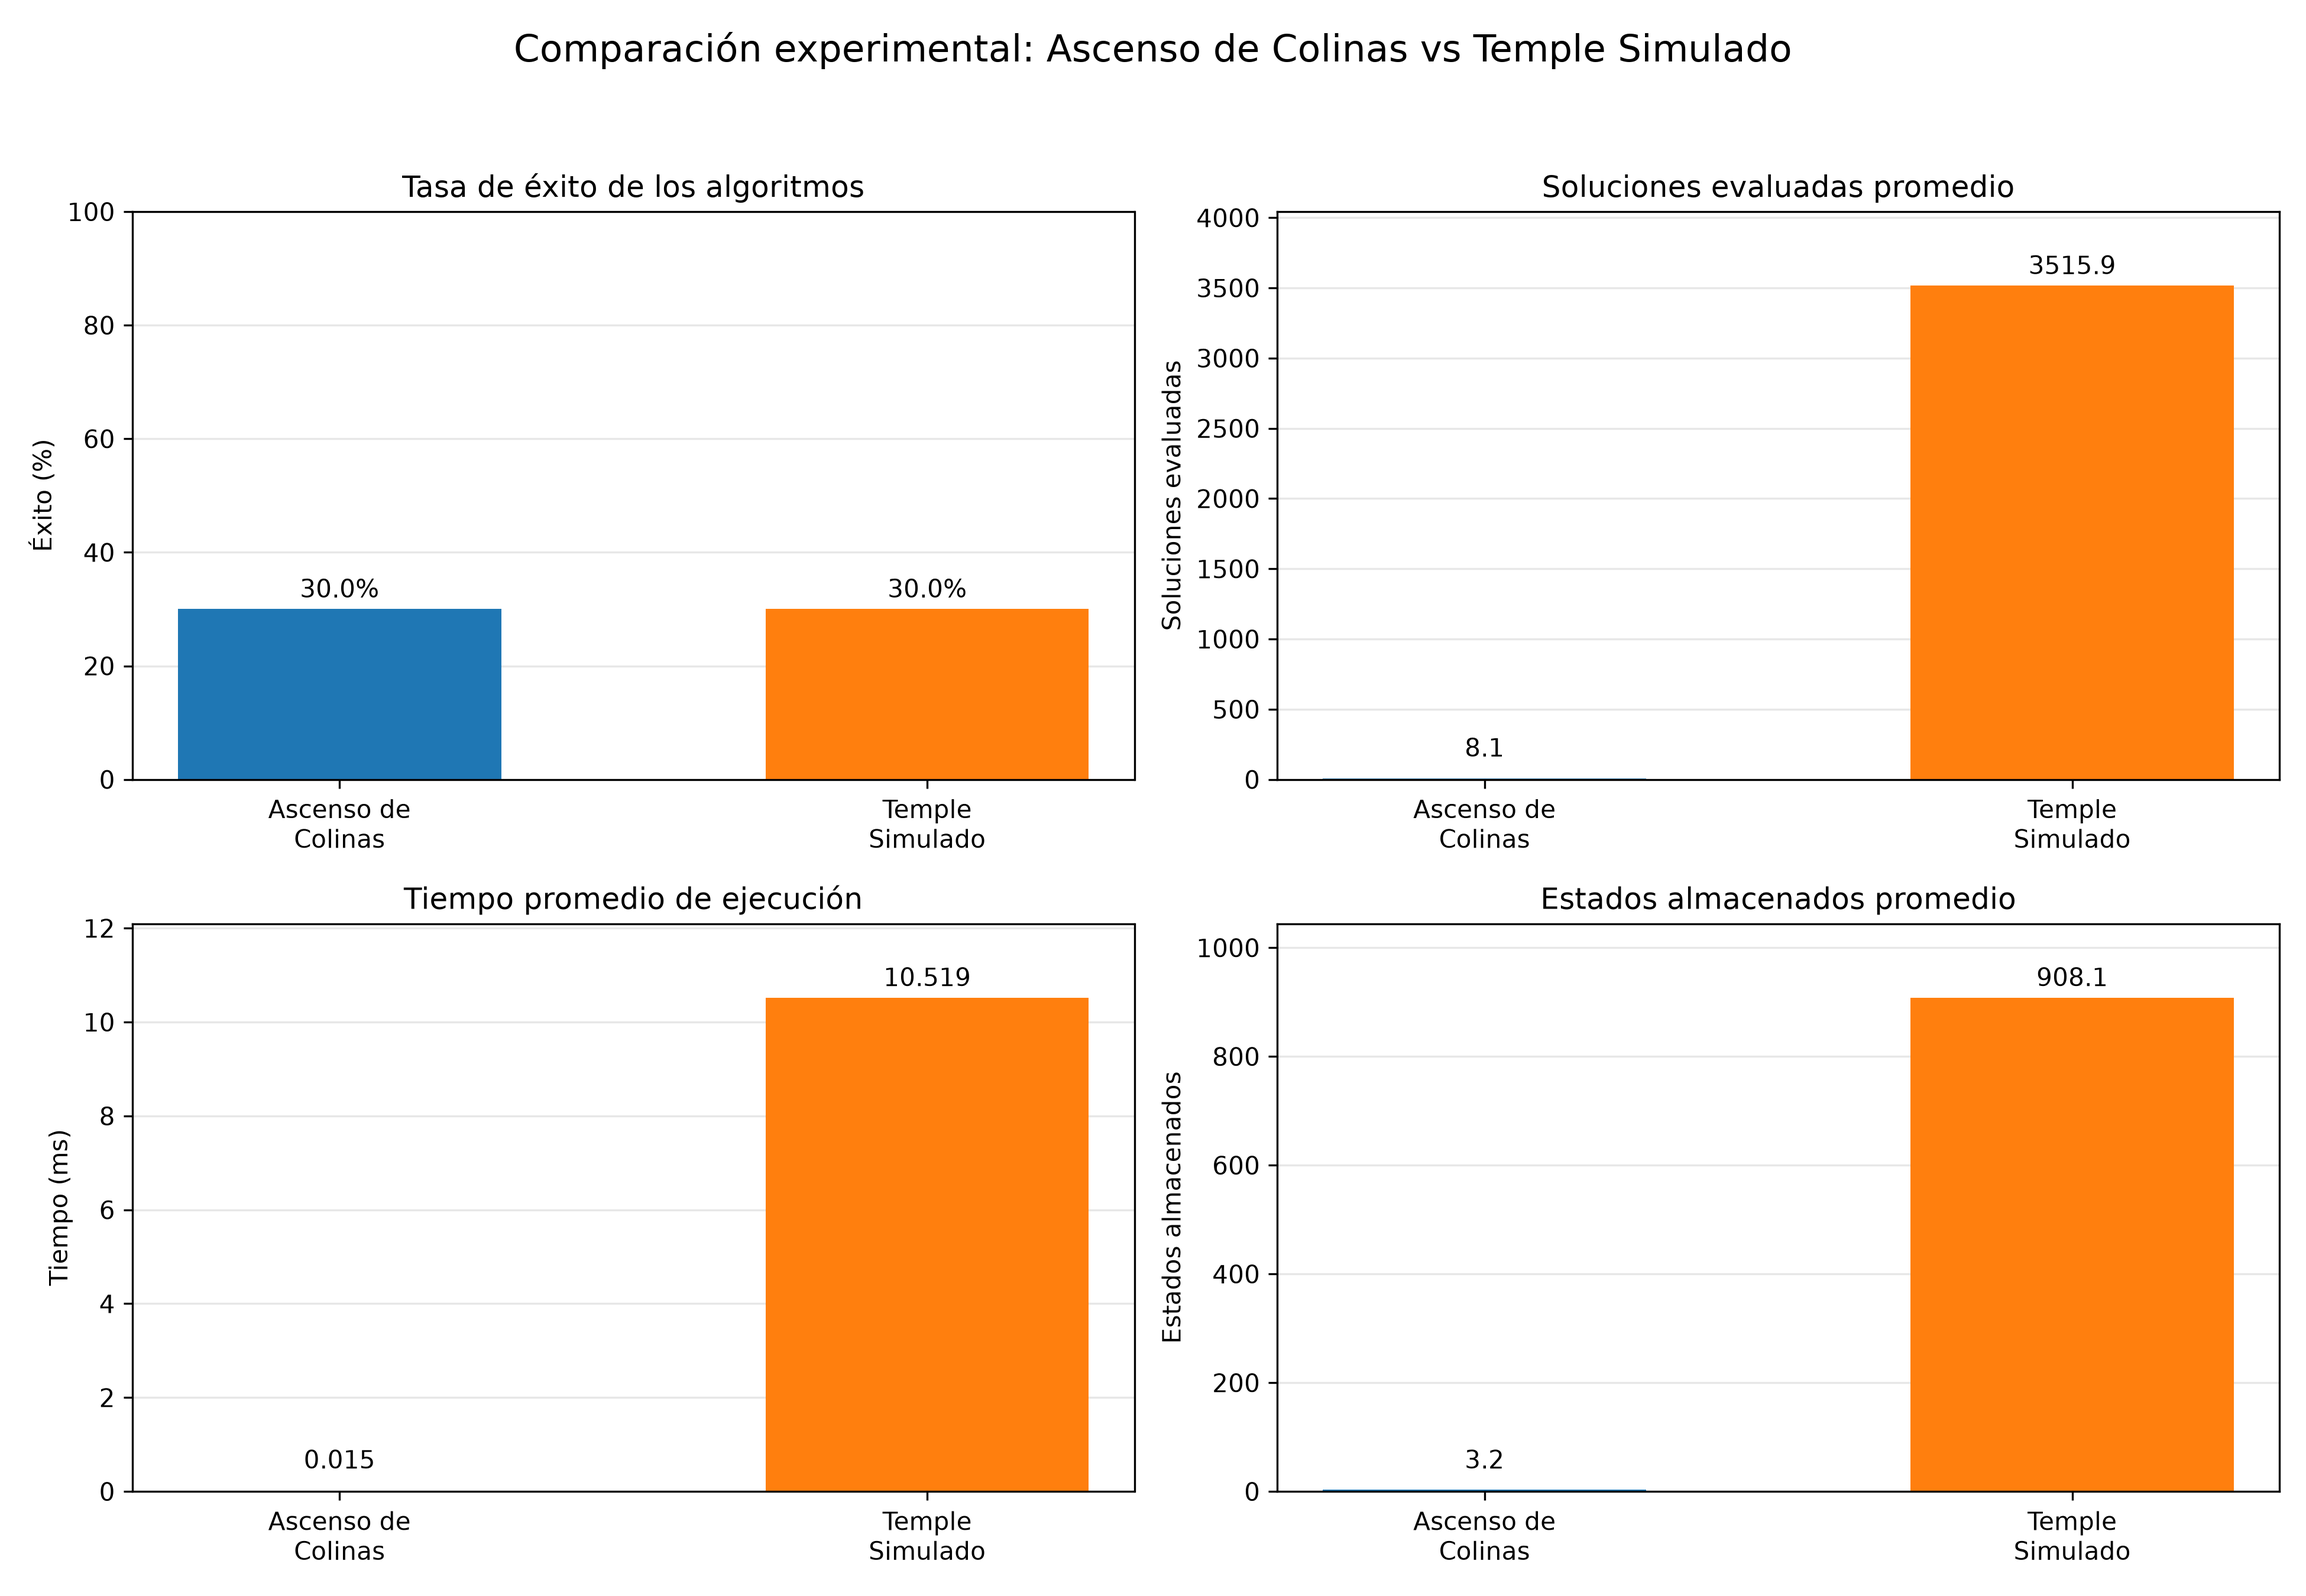
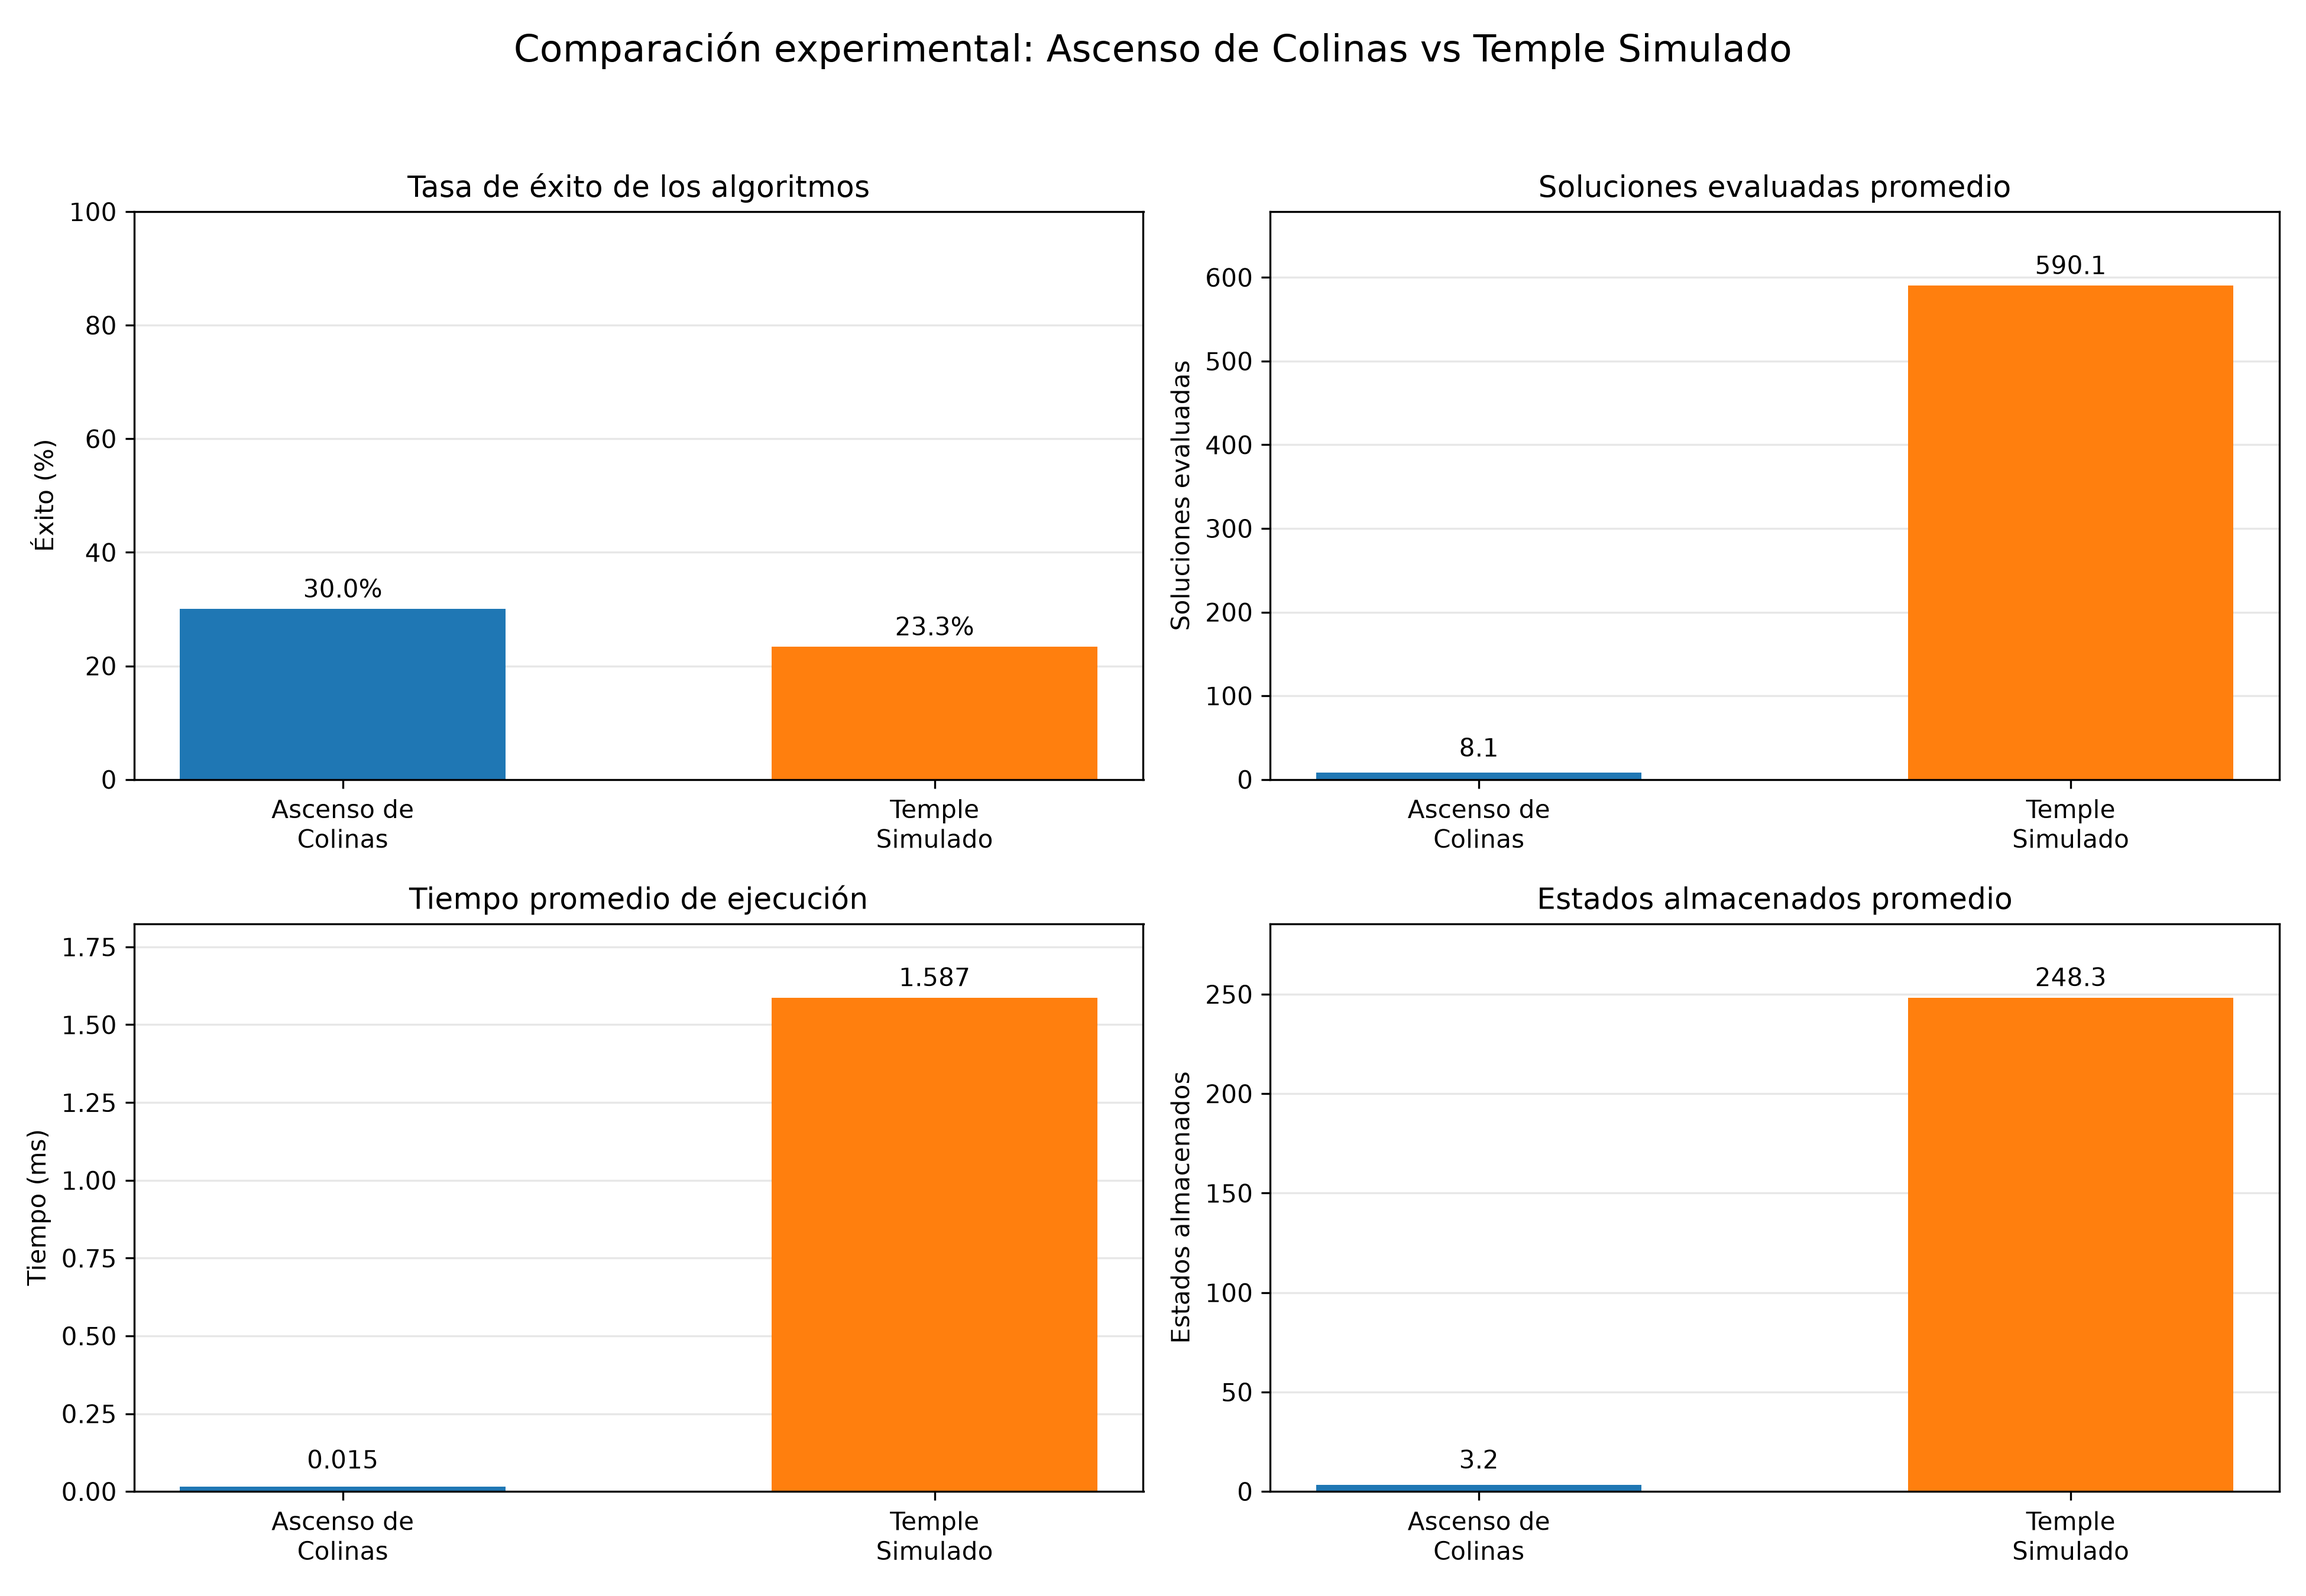
Corregir criterio de parada de temple simulado

diff --git a/puzzle_colinas_temple.py b/puzzle_colinas_temple.py
@@ -118,7 +118,7 @@ def temple_simulado(estado_inicial, T_inicial=2.0, alpha=0.99, T_min=0.001,
 
     Delta E = f(s') - f(s). Si mejora o empata se acepta.
     Si empeora se acepta con P = exp(-DeltaE / T).
-    Enfría con T = T_inicial * alpha^k.
+    Enfría con T = alpha * T y se detiene al llegar a T_min.
     """
     if semilla is not None:
         random.seed(semilla)
@@ -146,9 +146,9 @@ def temple_simulado(estado_inicial, T_inicial=2.0, alpha=0.99, T_min=0.001,
             "mejor_costo": 0,
         }
 
-    for k in range(max_iter):
-        T = max(T_min, T_inicial * (alpha ** k))
-        if actual == META:
+    T = T_inicial
+    for _ in range(max_iter):
+        if actual == META or T <= T_min:
             break
         vecinos = obtener_vecinos(actual)
         soluciones_evaluadas += 1
@@ -159,7 +159,7 @@ def temple_simulado(estado_inicial, T_inicial=2.0, alpha=0.99, T_min=0.001,
         if delta_E <= 0:
             acepta = True
         else:
-            prob = math.exp(-delta_E / T) if T > 0 else 0.0
+            prob = math.exp(-delta_E / T)
             if random.random() < prob:
                 acepta = True
         if acepta:
@@ -173,6 +173,7 @@ def temple_simulado(estado_inicial, T_inicial=2.0, alpha=0.99, T_min=0.001,
         historial_T.append(T)
         if mejor_costo == 0:
             break
+        T *= alpha
 
     exito = (mejor_costo == 0)
     return {
